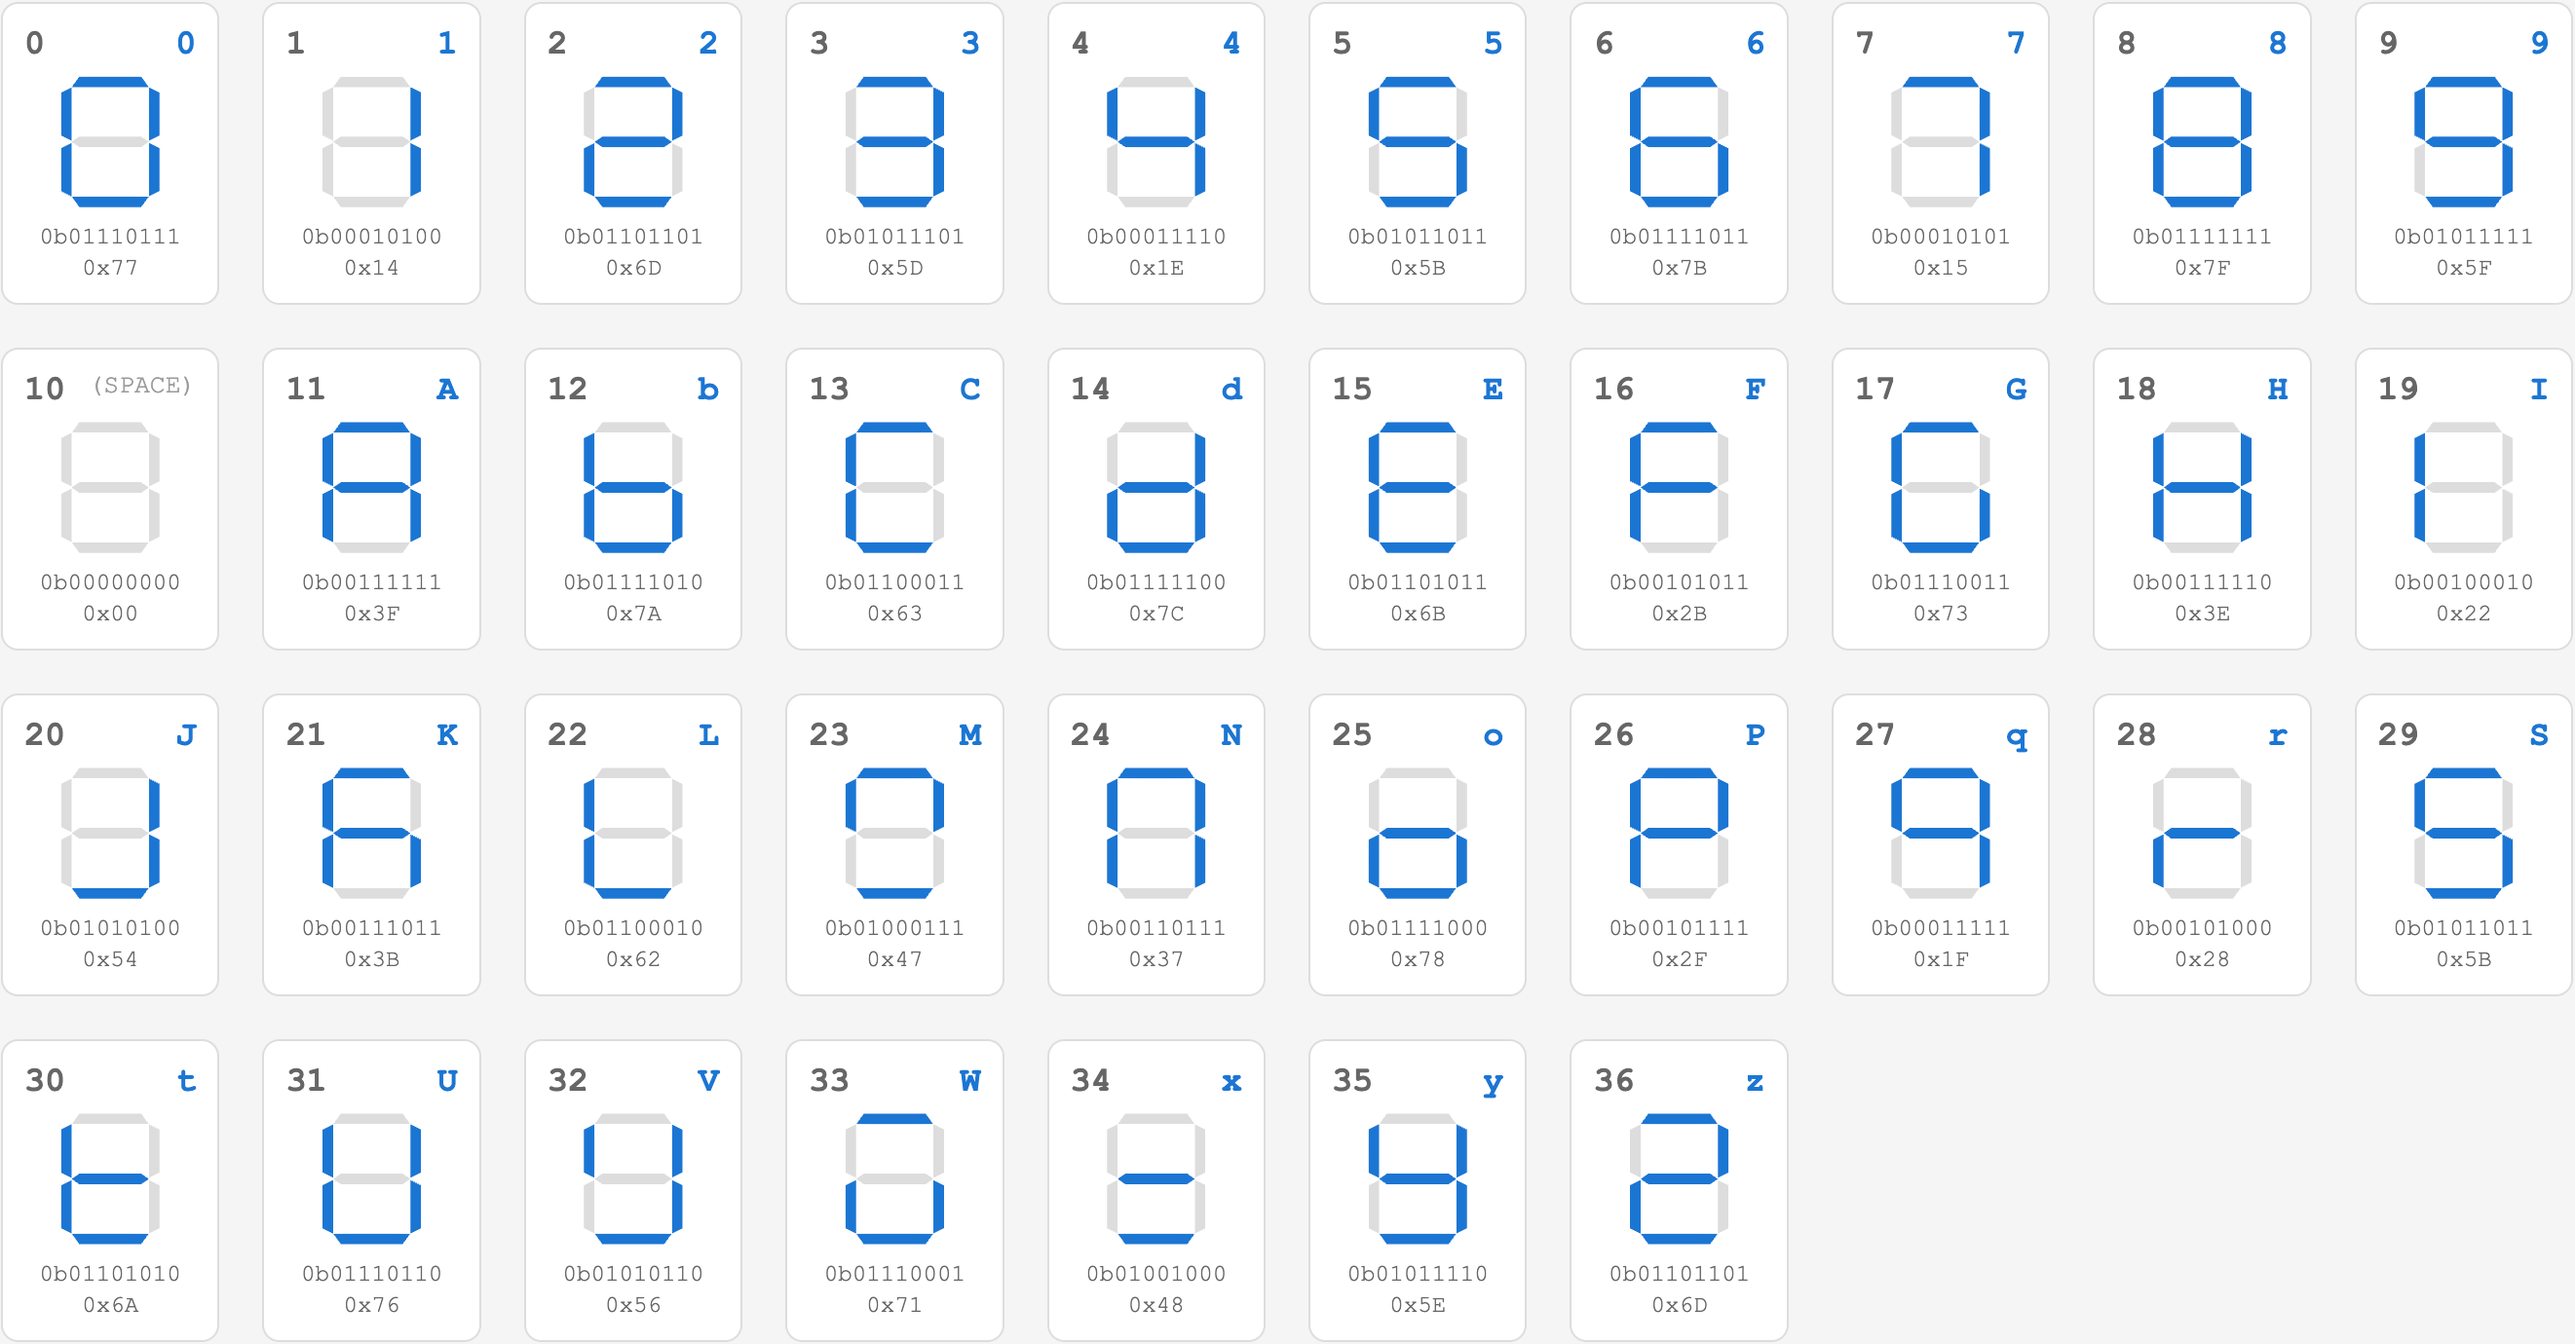
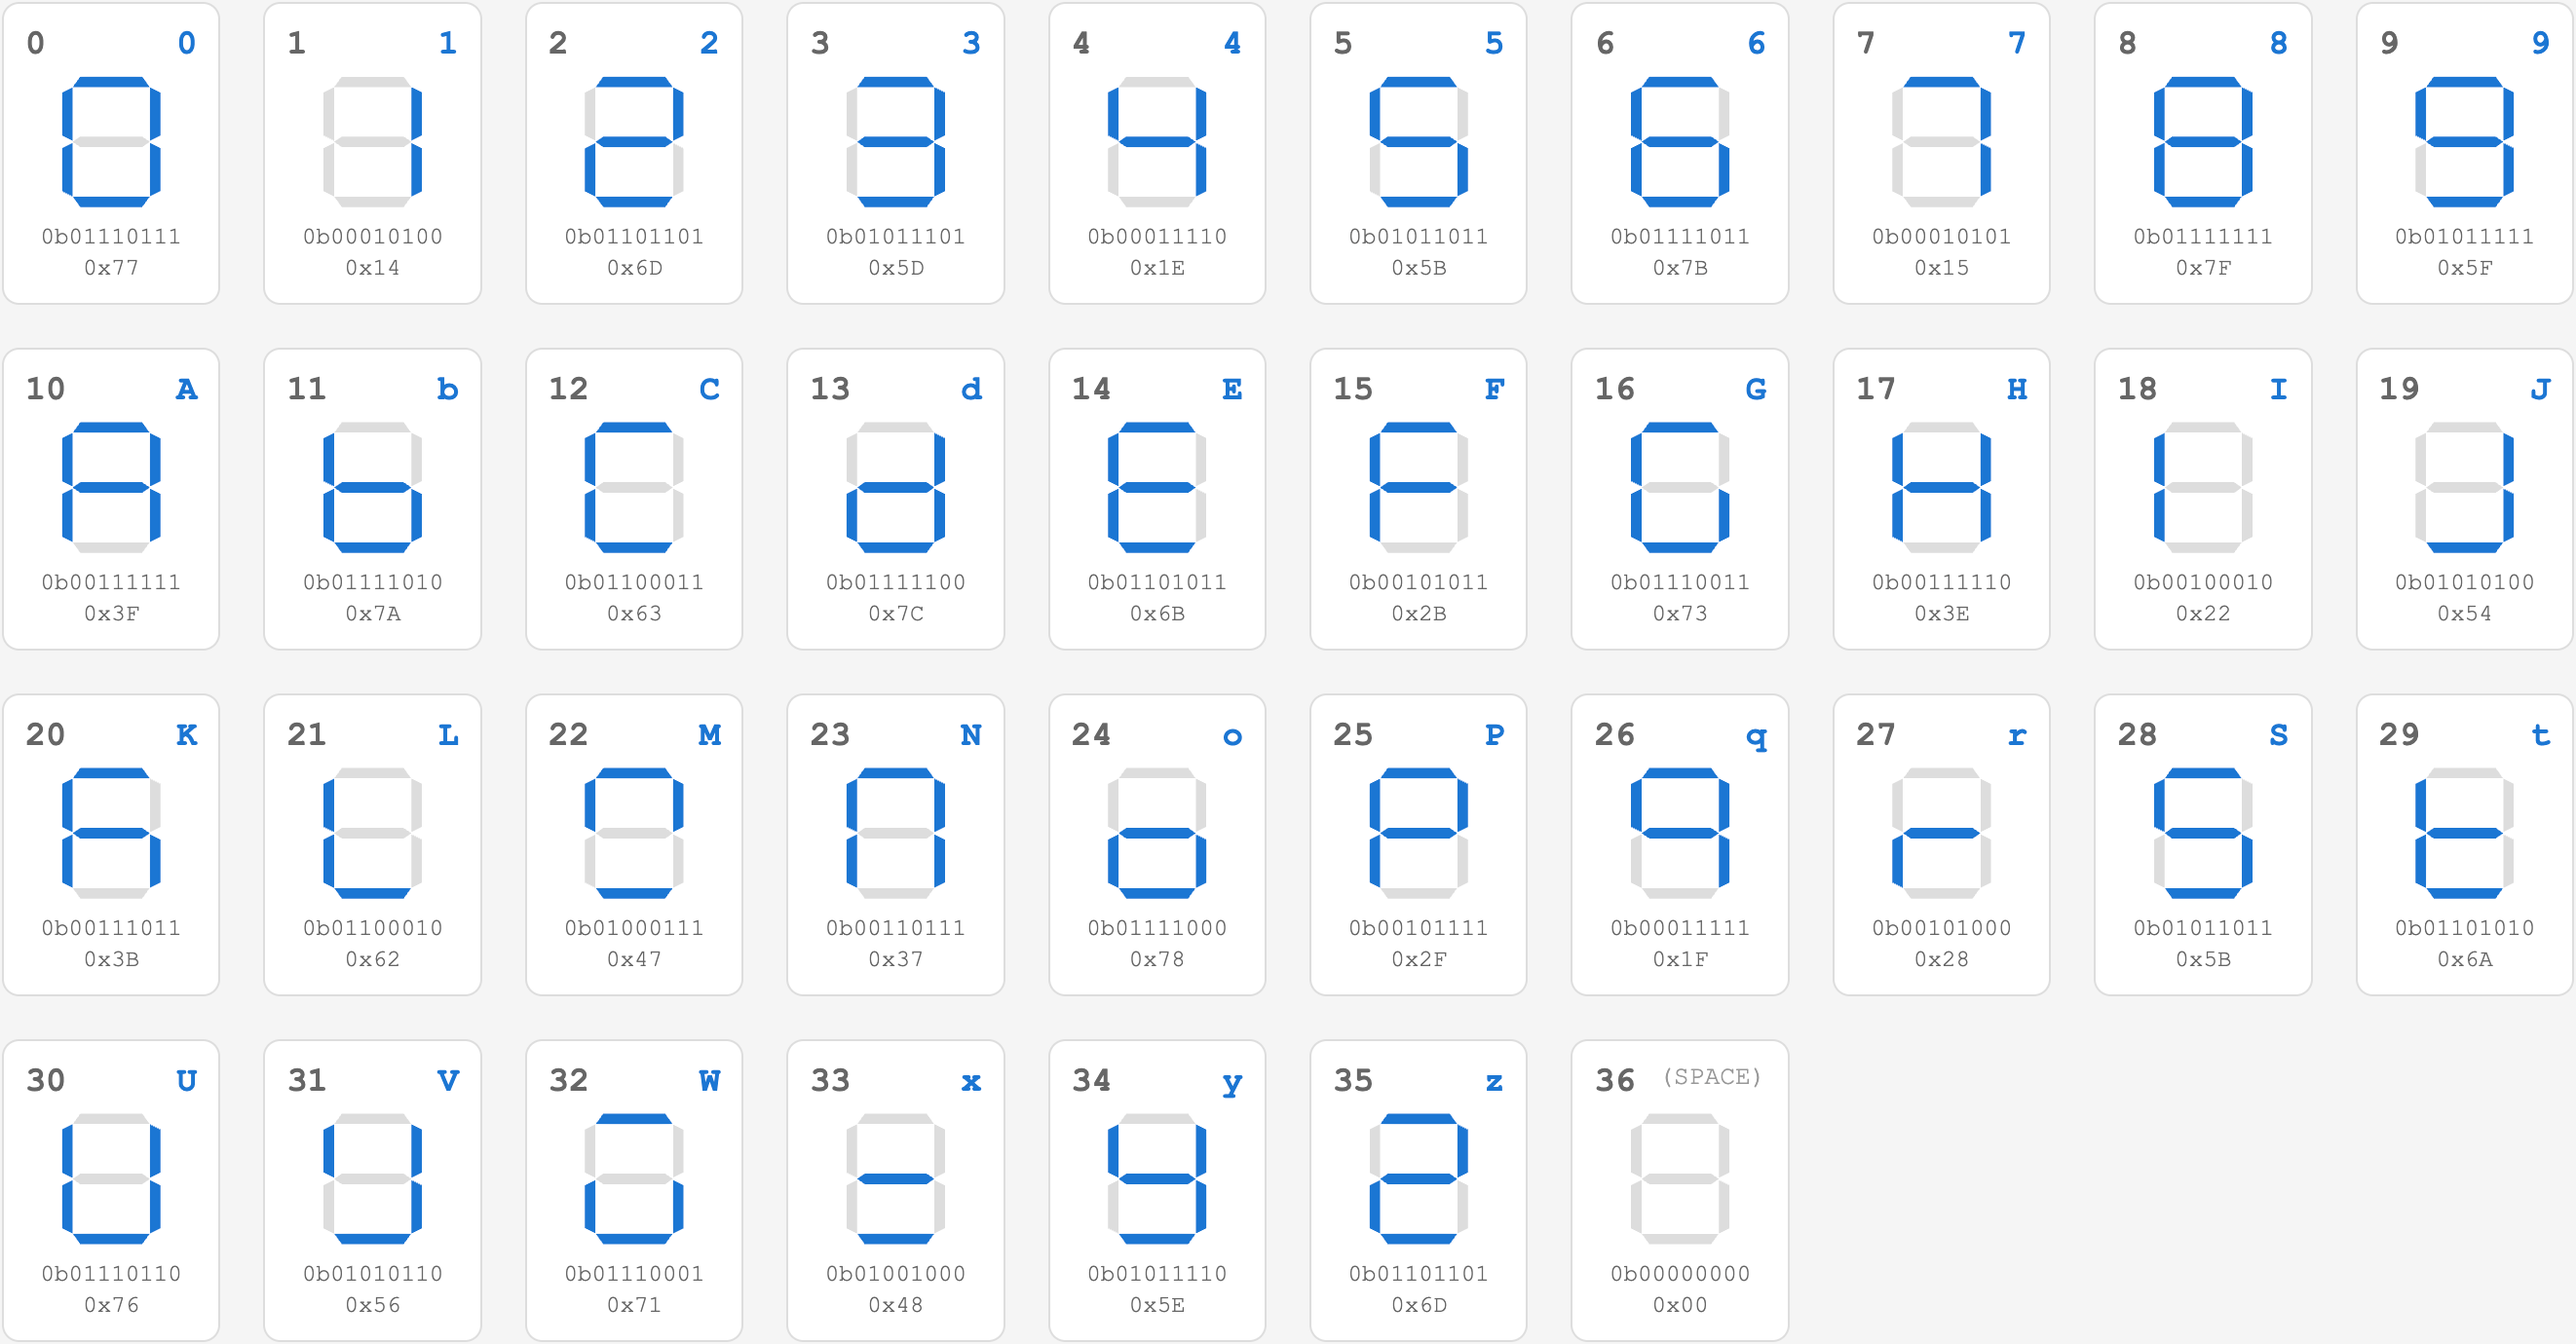
Remove all divide and modulo operations, firmware size from 1220B to 1084B

diff --git a/7segment-viewer.html b/7segment-viewer.html
@@ -1659,7 +1659,6 @@
                 0b0010101, // 7: ABC____ = 1110000 -> 0010101
                 0b1111111, // 8: ABCDEFG = 1111111 -> 1111111
                 0b1011111, // 9: ABCD_FG = 1111011 -> 1011111
-                0b0000000, // (space)              -> 0000000
                 0b0111111, // A: ABC_EFG = 111_111 -> 0111111
                 0b1111010, // b: __CDEFG = 0011111 -> 1111010
                 0b1100011, // C: A__DEF_ = 1001110 -> 1100011
@@ -1686,6 +1685,7 @@
                 0b1001000, // x: ___D__G = 0001001 -> 1001000
                 0b1011110, // y: _BCD_FG = 0111011 -> 1011110
                 0b1101101, // z: AB_DE_G = 1101101 -> 1101101
+                0b0000000, // (space)              -> 0000000
             ];
 
             const characters = [
@@ -1699,7 +1699,6 @@
                 "7",
                 "8",
                 "9",
-                " ",
                 "A",
                 "b",
                 "C",
@@ -1726,6 +1725,7 @@
                 "x",
                 "y",
                 "z",
+                " ",
             ];
 
             function createSevenSegment(pattern) {

diff --git a/lcd.c b/lcd.c
@@ -43,7 +43,6 @@ static const uint8_t character_segments[37] = {
     0b0010101,  // 7: ABC____ = 1110000 -> 0010101
     0b1111111,  // 8: ABCDEFG = 1111111 -> 1111111
     0b1011111,  // 9: ABCD_FG = 1111011 -> 1011111
-    0b0000000,  // (space)              -> 0000000
     0b0111111,  // A: ABC_EFG = 111_111 -> 0111111
     0b1111010,  // b: __CDEFG = 0011111 -> 1111010
     0b1100011,  // C: A__DEF_ = 1001110 -> 1100011
@@ -70,6 +69,7 @@ static const uint8_t character_segments[37] = {
     0b1001000,  // x: ___D__G = 0001001 -> 1001000
     0b1011110,  // y: _BCD_FG = 0111011 -> 1011110
     0b1101101,  // z: AB_DE_G = 1101101 -> 1101101
+    0b0000000,  // (space)              -> 0000000
 };
 
 static const uint8_t com_pins[4]  = {PIN_COM1, PIN_COM2, PIN_COM3, PIN_COM4};
@@ -91,20 +91,16 @@ void calculate_seg_masks(const uint8_t d1_segs, const uint8_t d2_segs, const uin
     seg_masks[3] = ((d1_segs & 0x03) << 4) | ((d2_segs & 0x03) << 2) | ((d3_segs & 0x03) >> 0);  // COM4: FA bits
 }
 
-void show_number(uint16_t number, const uint8_t base)
+void show_hex_number(uint16_t number)
 {
-    const uint8_t d3_segs = character_segments[number % base];  // D3
-    number /= base;
-    const uint8_t d2_segs = character_segments[number % base];  // D2
-    number /= base;
-    const uint8_t d1_segs = character_segments[number % base];  // D1
-
-    calculate_seg_masks(d1_segs, d2_segs, d3_segs);
+    calculate_seg_masks(character_segments[(number >> 8) & 0x0F],  // D1
+                        character_segments[(number >> 4) & 0x0F],  // D2
+                        character_segments[number & 0x0F]);        // D3
 }
 
 void show_string(const char* str)
 {
-    uint8_t segs[3] = {0, 0, 0};  // Initialize to blank
+    uint8_t segs[3] = {0, 0, 0};  // D1 D2 D3
 
     for (uint8_t i = 0; i < 3; i++)
     {
@@ -119,14 +115,14 @@ void show_string(const char* str)
         }
         else if (c == ' ')
         {
-            index = 10;
+            index = 36;
         }
         else
         {
             c |= 0x20;  // Case-insensitive
             if (c >= 'a' && c <= 'z')
             {
-                index = c - 'a' + 11;
+                index = c - 'a' + 10;
             }
             else
             {
@@ -154,17 +150,18 @@ void SysTick_Handler(void)
 {
     // LCDReady  3  2  1  0 Go
     // 01234567890123456789012
-    static char*   startup = "LCDReady  3  2  1  0 Go";
-    static int16_t counter = -80;
+    static char*    startup = "LCDReady  3  2  1  0 Go";
+    static uint16_t counter = 0;
 
     SysTick->CMP += FUNCONF_SYSTEM_CORE_CLOCK / 1000 * 100;  // 100ms
     SysTick->SR = 0;
 
-    counter = (counter + 1) % 1000;
-    if (counter < 0)
-        show_string(&startup[21 - -counter / 10 * 3]);
+    if (++counter < 64)
+        show_string(&startup[(counter >> 3) * 3]);
+    else if (counter > 0xFFF + 64)
+        counter = 0;
     else
-        show_number(counter, 10);
+        show_hex_number(counter - 64);
 }
 
 int main(void)
